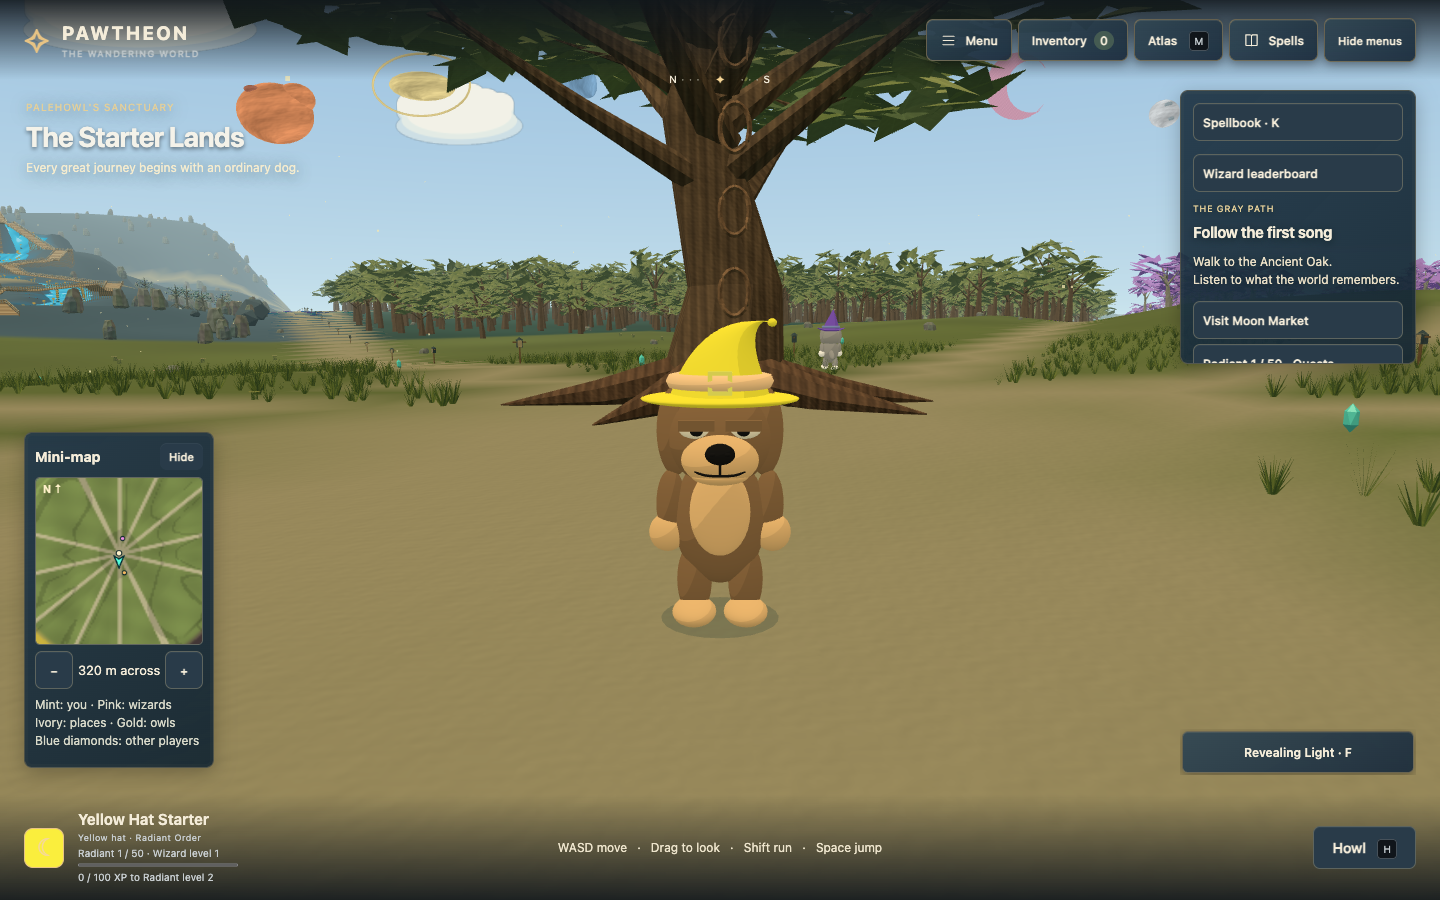
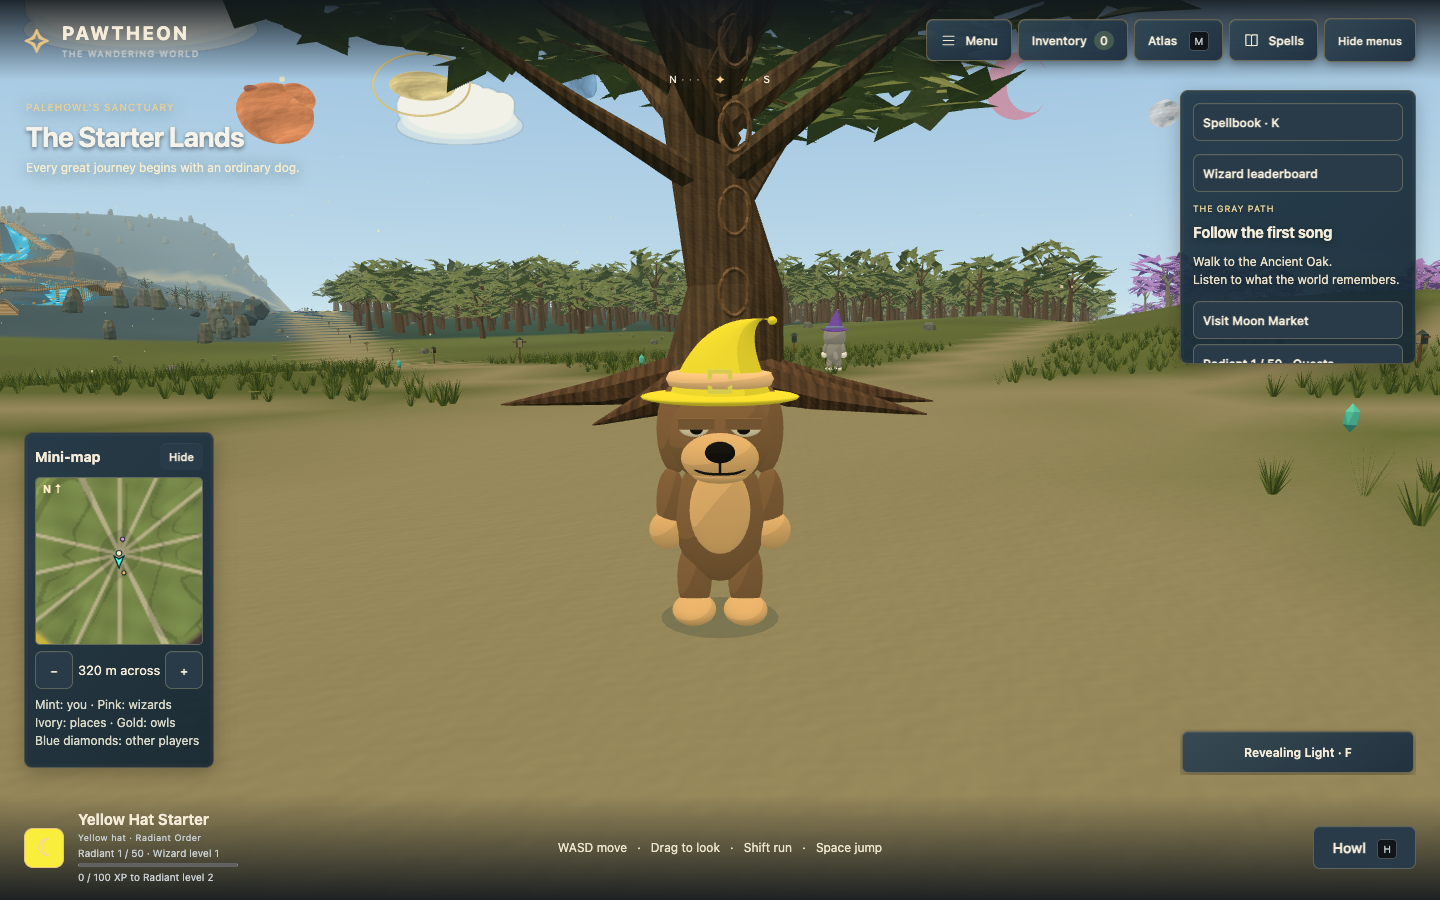
Record public game verification and add production persistence check

diff --git a/PLAY-RELEASE.md b/PLAY-RELEASE.md
@@ -10,16 +10,16 @@ Prepared 2026-09-13 from website production commit `6f9d440` and Pawtheon v2 com
 - New production database: no development accounts, passwords, saves or test data copied.
 - Runtime source cannot be served by the website's static handler.
 
-## Hosting prerequisites — do before merging to main
+## Hosting configuration (completed September 13, 2026)
 
-1. Restore Railway authentication externally or via protected credential entry. Saved CLI login is unauthorized; protected entry returned no answer.
+1. Railway authentication restored by Adam on the Mac mini.
 2. Identify the existing service for theorderof86.com; retain its domain and existing settings.
 3. Attach a persistent Railway volume at `/data` and set `PLAY_DB_PATH=/data/pawtheon.sqlite`. Verify actual volume attachment, not merely environment configuration. Keep one replica for SQLite. Arrange volume backups.
 4. Confirm service uses this repository and main branch, root Dockerfile, with no old conflicting build/start override. Node 22.22.3 is required for native SQLite.
 5. Merge the prepared release to main and push via GitHub; Railway auto-deploys. Do not use railway up/redeploy.
 6. Verify public homepage and existing routes, `/play/`, assets, account save/reload and two-player room. Verify account/save persists across a subsequent controlled deployment before declaring production persistence proven.
 
-Dockerfile prepared; Docker is unavailable locally, so Linux container build is not verified. Production must not launch without an existing database parent directory. This catches absent `/data`, but cannot itself prove persistence.
+Railway Linux Docker build passed and first production deployment succeeded. SSH confirmed /data is a mounted ext4 device. Production must not launch without an existing database parent directory. This catches absent `/data`, but cannot itself prove persistence.
 
 ## Local verification
 
@@ -38,4 +38,4 @@ Dependency audit: root and pared-down game dependencies show zero vulnerabilitie
 
 ## Updates and rollback
 
-Future v2 changes require an explicit release into this snapshot; source v2 continues separately. Never copy live production SQLite into Git. Before future migrations, back up production volume. Code rollback uses the prior website commit; retain the game volume and do not delete production data. Current release has not been deployed.
+Future v2 changes require an explicit release into this snapshot; source v2 continues separately. Never copy live production SQLite into Git. Before future migrations, back up production volume. Code rollback uses the prior website commit; retain the game volume and do not delete production data. Initial production deployment succeeded as fd075bf. Public homepage/map/content/moons and game entry/module bytes matched the verified release. Production save creation succeeded. A follow-up documentation/verification deployment will validate persistence across container replacement.
